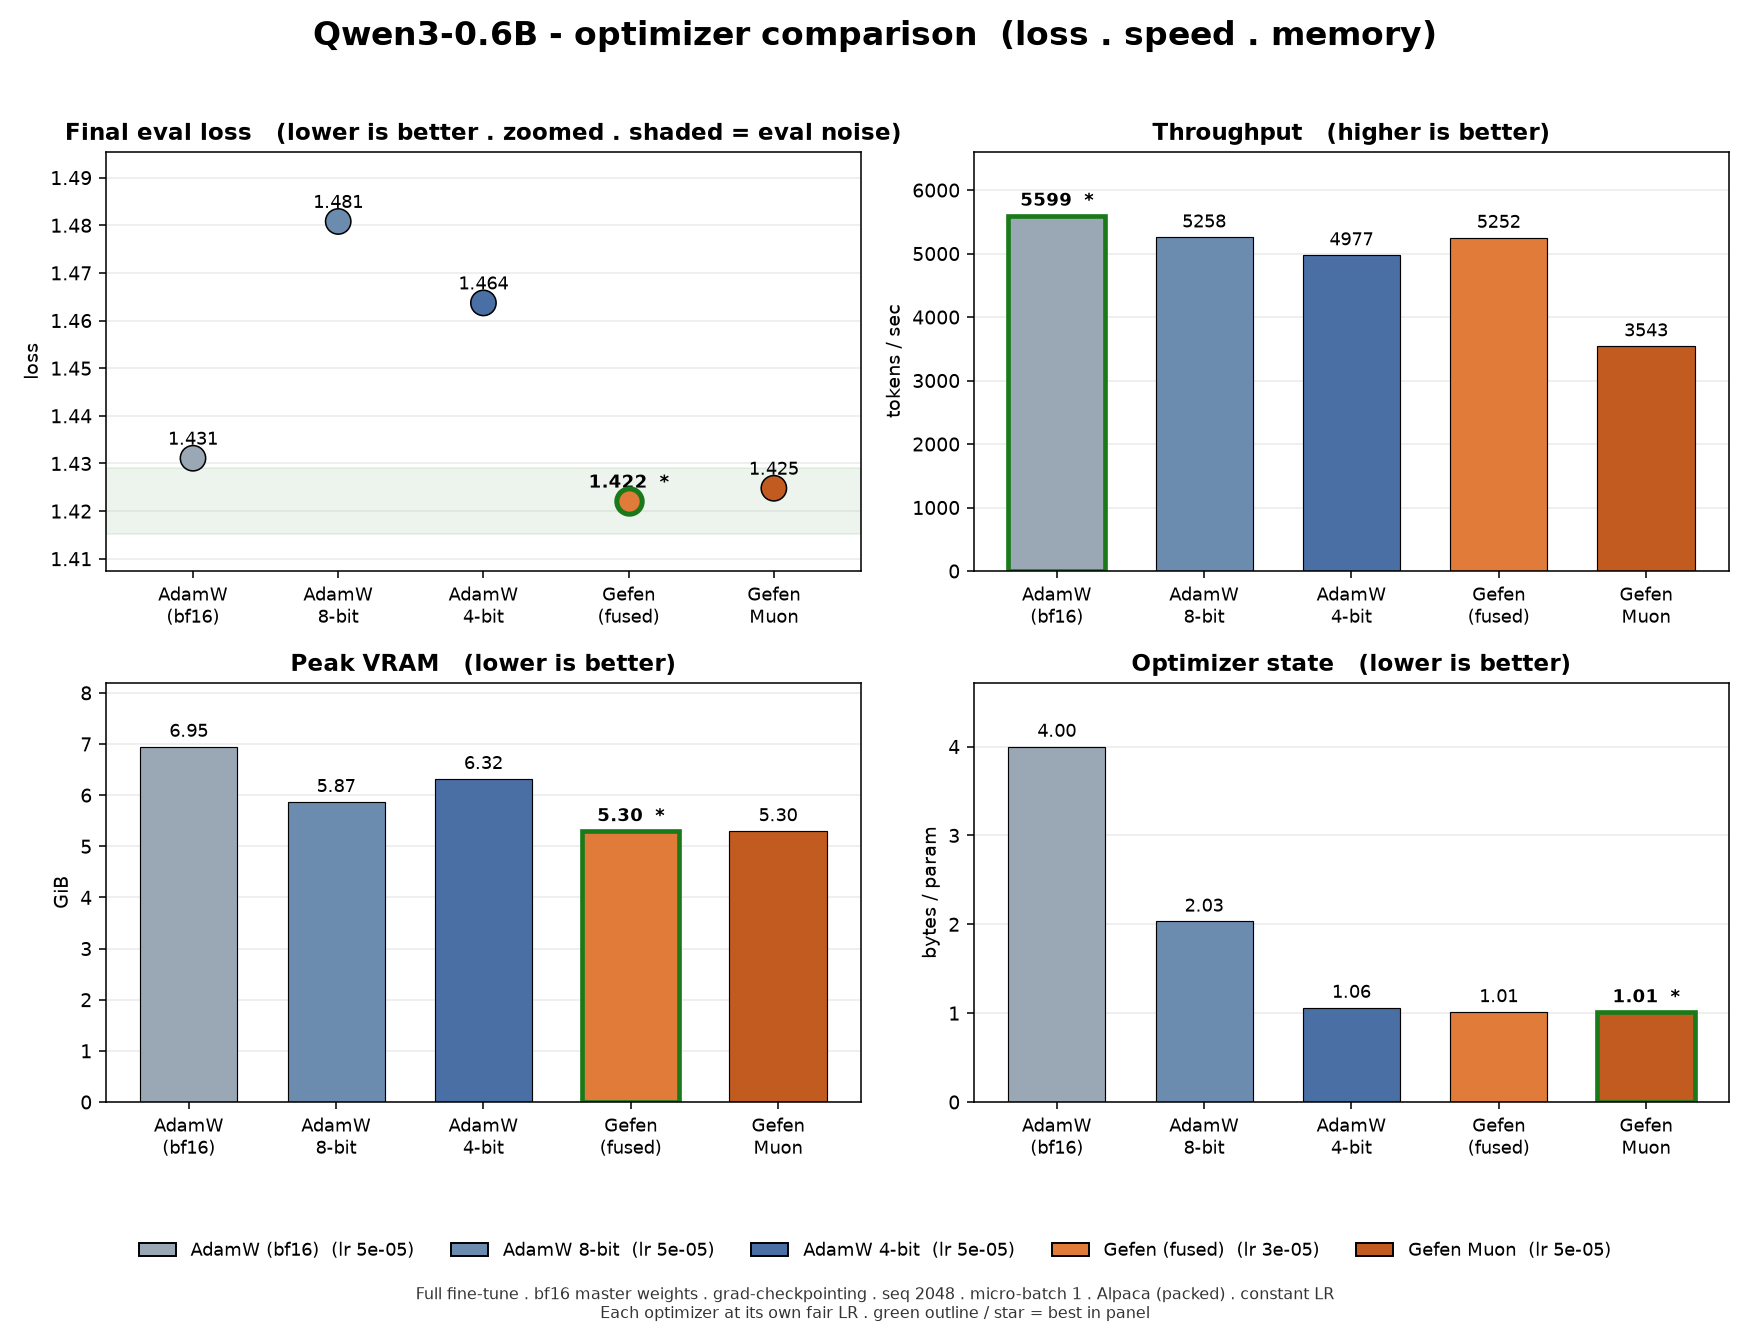
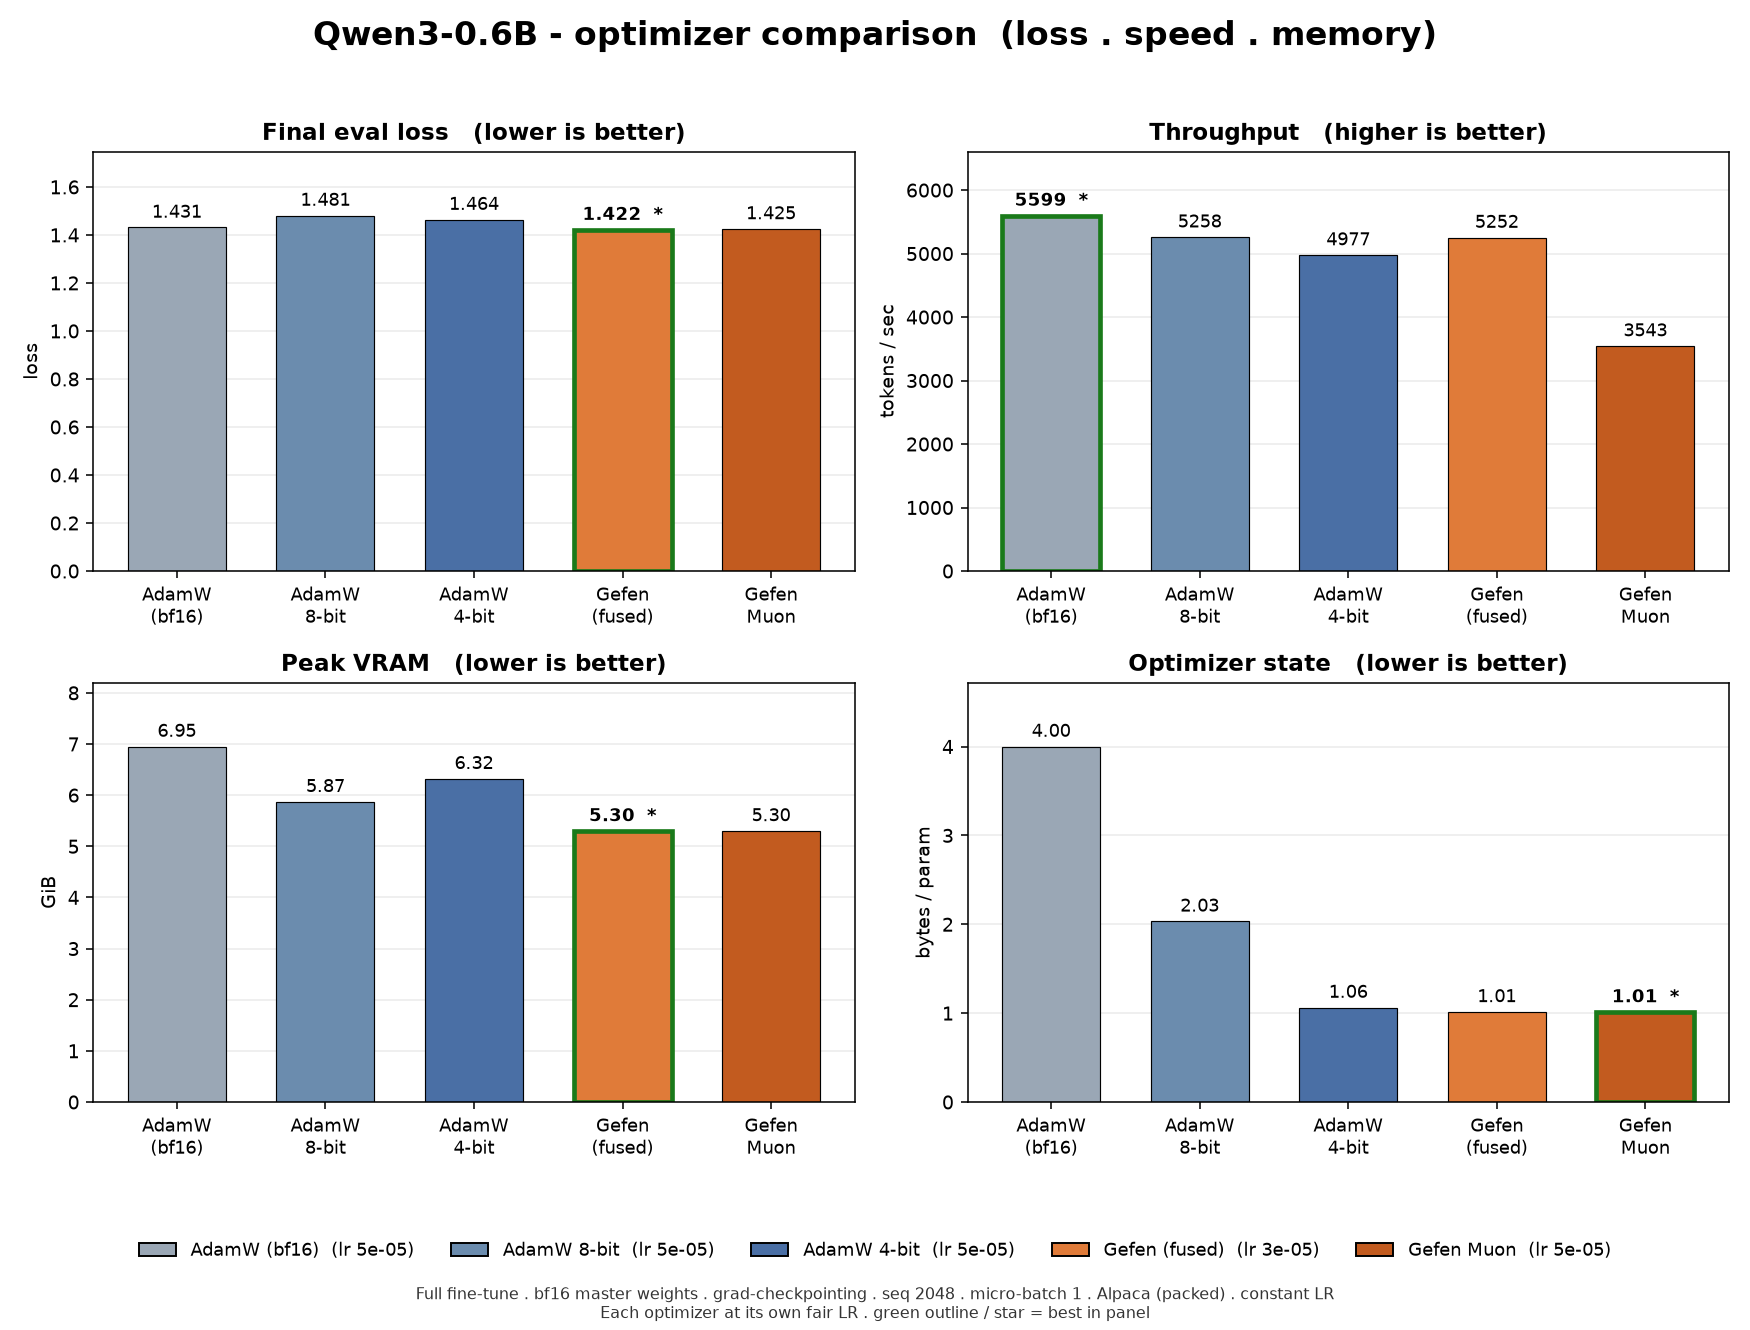
revert: quad-chart loss panel back to bars
The dot-panel change was beyond the review ask; plot_quads.py is restored to
main's version and both quad charts regenerated as bars from the published
(post-factored-default) results. Data unchanged: gefen_fused 1.422 @ lr 3e-5
(0.6B) and 1.221 (1.7B).

diff --git a/benchmarks/optimizer-sweep/plot_quads.py b/benchmarks/optimizer-sweep/plot_quads.py
@@ -72,49 +72,25 @@ def main():
             vals = [mrows[o][key] for o in opts]
             colors = [COLOR.get(o, "#888888") for o in opts]
             bi = best_idx(vals, direction)
+            bars = ax.bar(range(len(opts)), vals, color=colors,
+                          edgecolor="black", linewidth=0.6, width=0.66)
+            bars[bi].set_edgecolor("#1a7a1a")
+            bars[bi].set_linewidth(2.4)
             ax.set_xticks(range(len(opts)))
             ax.set_xticklabels([LABEL.get(o, o) for o in opts], fontsize=9.5)
             ax.set_ylabel(unit, fontsize=10)
             arrow = "lower is better" if direction == "lower" else "higher is better"
+            ax.set_title(f"{title}   ({arrow})", fontsize=12, fontweight="bold")
             finite = [v for v in vals if math.isfinite(v)]
-
-            if key == "final_eval_loss":
-                # Converged losses differ by <1%, so a zero-based bar axis hides
-                # the story. Use points on a zoomed axis, with the documented
-                # single-eval noise band (+/-0.007) shaded around the best value
-                # so "statistical tie" is visible at a glance.
-                noise = 0.007
-                ax.axhspan(vals[bi] - noise, vals[bi] + noise,
-                           color="#1a7a1a", alpha=0.08, zorder=0)
-                ax.scatter(range(len(opts)), vals, s=170, c=colors,
-                           edgecolors="black", linewidths=0.8, zorder=3)
-                ax.scatter([bi], [vals[bi]], s=170, c=[colors[bi]],
-                           edgecolors="#1a7a1a", linewidths=2.6, zorder=4)
-                lo, hi = min(finite), max(finite)
-                pad = max((hi - lo) * 0.25, noise * 1.5)
-                ax.set_ylim(lo - pad, hi + pad)
-                ax.set_xlim(-0.6, len(opts) - 0.4)
-                ax.set_title(f"{title}   ({arrow} . zoomed . shaded = eval noise)",
-                             fontsize=12, fontweight="bold")
-                for i, v in enumerate(vals):
-                    star = "  *" if i == bi else ""
-                    ax.text(i, v + pad * 0.13, f"{v:.3f}{star}",
-                            ha="center", va="bottom", fontsize=9.5,
-                            fontweight="bold" if i == bi else "normal")
-            else:
-                bars = ax.bar(range(len(opts)), vals, color=colors,
-                              edgecolor="black", linewidth=0.6, width=0.66)
-                bars[bi].set_edgecolor("#1a7a1a")
-                bars[bi].set_linewidth(2.4)
-                ax.set_title(f"{title}   ({arrow})", fontsize=12, fontweight="bold")
-                vmax = max(finite) if finite else 1.0
-                ax.set_ylim(0, vmax * 1.18)
-                for i, (b, v) in enumerate(zip(bars, vals)):
-                    txt = f"{v:.0f}" if key == "tok_per_s" else f"{v:.2f}"
-                    star = "  *" if i == bi else ""
-                    ax.text(b.get_x() + b.get_width() / 2, v + vmax * 0.015, txt + star,
-                            ha="center", va="bottom", fontsize=9.5,
-                            fontweight="bold" if i == bi else "normal")
+            vmax = max(finite) if finite else 1.0
+            ax.set_ylim(0, vmax * 1.18)
+            for i, (b, v) in enumerate(zip(bars, vals)):
+                txt = (f"{v:.3f}" if key == "final_eval_loss"
+                       else (f"{v:.0f}" if key == "tok_per_s" else f"{v:.2f}"))
+                star = "  *" if i == bi else ""
+                ax.text(b.get_x() + b.get_width() / 2, v + vmax * 0.015, txt + star,
+                        ha="center", va="bottom", fontsize=9.5,
+                        fontweight="bold" if i == bi else "normal")
             ax.grid(axis="y", alpha=0.25)
             ax.set_axisbelow(True)
 